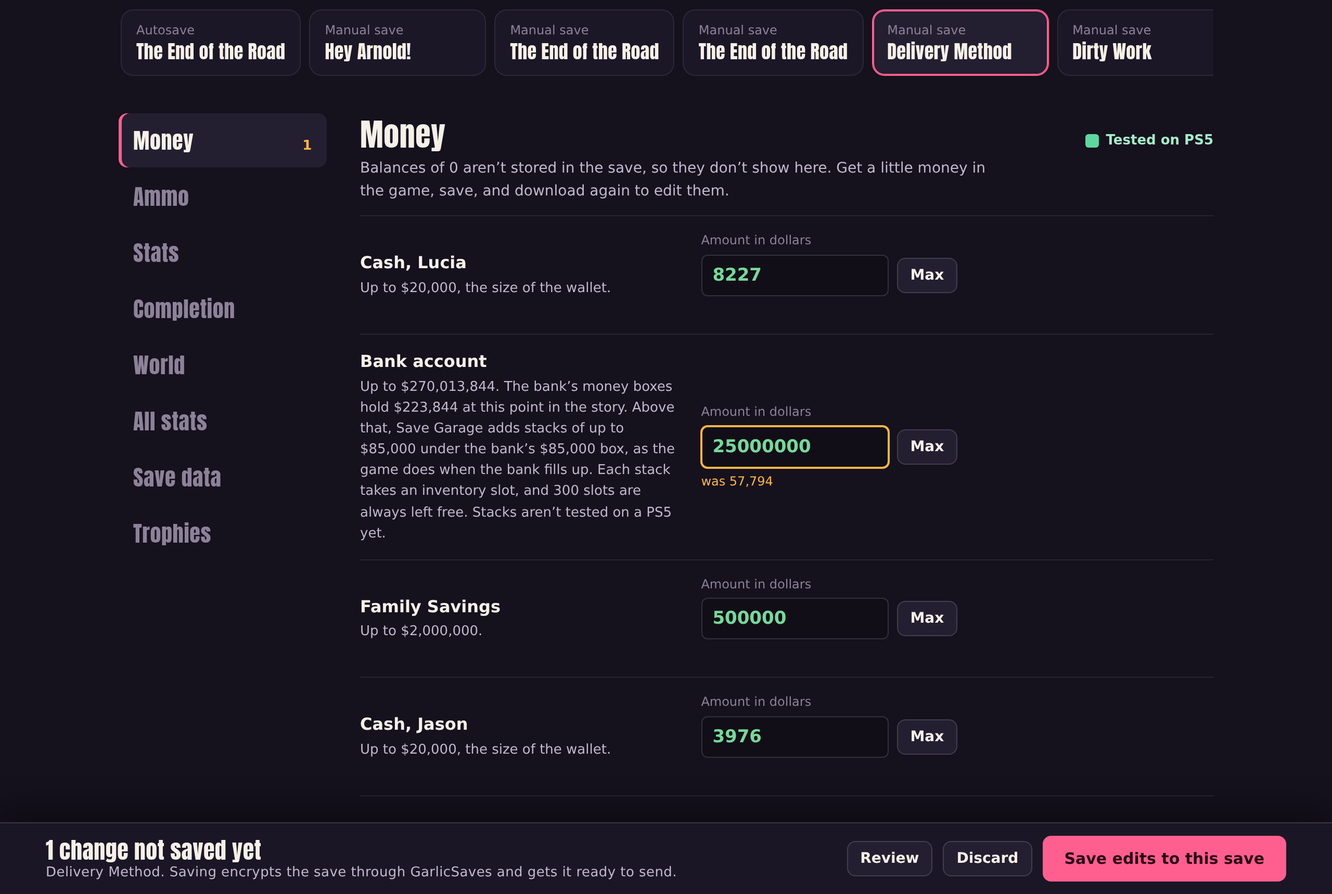
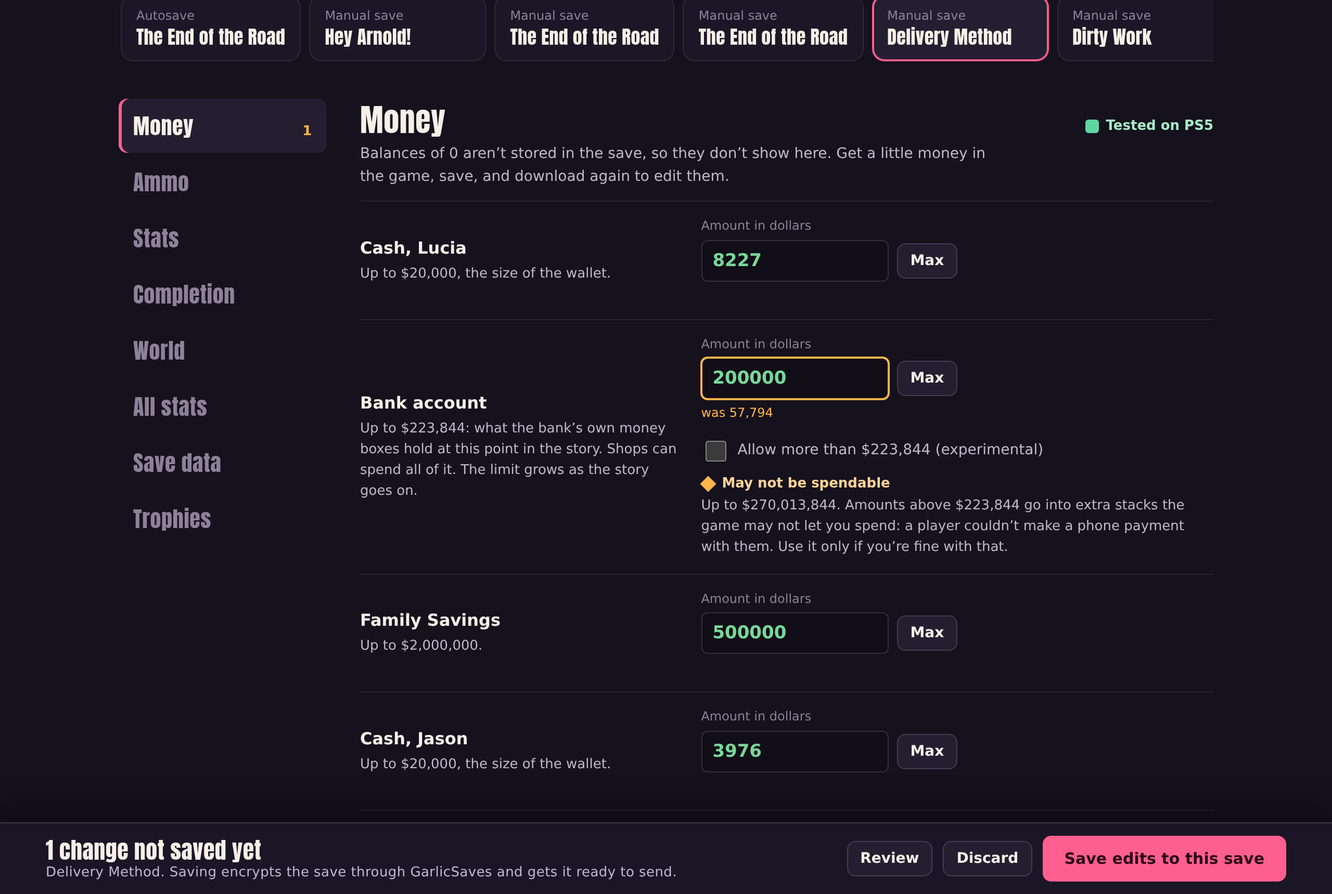
Money: keep the bank within its own boxes by default (issue #8)
A player on 1.30.0 with about $2,000,000 in the bank couldn't make a phone payment at the end of the story; with the
same money earned in the game it worked. Amounts above the bank's own boxes go into extra $85,000 stacks, which were
never tested on a PS5 and may not be spendable.
- The bank's max is now what its own boxes hold (up to $223,844 late in the story), which shops can spend. A change
  is clamped to it unless it carries stacks: true.
- "Allow more than $X (experimental)" on the Money tab opts into the stacks, marked "May not be spendable".
- A save that already holds more than its boxes (edited with 1.26-1.30) shows how much may not be spendable and a
  "Make it spendable" button that sets the bank to what its boxes hold, emptying the stacks.
- New text in 12 languages; docs and the README screenshot updated.

diff --git a/ui/app.js b/ui/app.js
@@ -559,25 +559,31 @@
 
   const riskTag = r => ({tested: '<span class="risk tested">Tested on PS5</span>', caution: '<span class="risk caution">Not tested yet</span>',
                          danger: '<span class="risk danger">Can break your save</span>', untested: '<span class="risk caution">Not tested on a PS5 yet</span>',
-                         experimental: '<span class="risk caution">Experimental, not tested on a PS5 yet</span>'})[r] || '';
+                         experimental: '<span class="risk caution">Experimental, not tested on a PS5 yet</span>',
+                         stacks: '<span class="risk caution">May not be spendable</span>'})[r] || '';
 
   // ---- drafts: what the user wants each save to look like, always relative to the original save
   function seedDraft(s) {
     if (S.drafts[s.file]) return;
-    const d = {money: {}, ammo: {}, stats: {}, world: {}, raw: {}, completion: {}, guns: {}};
+    const d = {money: {}, ammo: {}, stats: {}, world: {}, raw: {}, completion: {}, guns: {}, stacksOn: {}};
     const a = s.applied || {};
     if (a.world) d.world = JSON.parse(JSON.stringify(a.world));
     if (a.completion) d.completion = JSON.parse(JSON.stringify(a.completion));
     if (a.guns) d.guns = JSON.parse(JSON.stringify(a.guns));
     for (const c of a.raw || []) d.raw[rawKey(c.section, c.path)] = c;
-    for (const c of a.money || []) d.money[`${c.inv}:${c.idx}`] = c;
+    for (const c of a.money || []) {
+      d.money[`${c.inv}:${c.idx}`] = c;
+      if (c.stacks) d.stacksOn[`${c.inv}:${c.idx}`] = true;       // saved with the bank's extra stacks: the box stays ticked
+    }
     for (const c of a.ammo || []) d.ammo[`${c.inv}:${c.idx}`] = c;
     for (const c of a.stats || []) d.stats[`${c.group}:${c.row}`] = c;
     S.drafts[s.file] = d;
   }
 
   const rawKey = (sec, path) => sec + ':' + JSON.stringify(path);
-  const draftOf = file => S.drafts[file] || (S.drafts[file] = {money: {}, ammo: {}, stats: {}, world: {}, raw: {}, completion: {}, guns: {}});
+  const draftOf = file => S.drafts[file] || (S.drafts[file] = {money: {}, ammo: {}, stats: {}, world: {}, raw: {}, completion: {}, guns: {}, stacksOn: {}});
+  // the bank's experimental extra stacks, ticked for this bank field ("inv:idx"); its changes then carry stacks: true
+  const stacksOn = (file, key) => !!draftOf(file).stacksOn?.[key];
   const draftList = d => ({money: Object.values(d.money), ammo: Object.values(d.ammo), stats: Object.values(d.stats), world: {...(d.world || {})},
                            raw: Object.values(d.raw || {}), completion: JSON.parse(JSON.stringify(d.completion || {})), guns: JSON.parse(JSON.stringify(d.guns || {}))});
   const compCount = c => ['compendium', 'discovery', 'challenges', 'gyms', 'activities', 'robberies', 'fencing', 'activities2', 'hoops', 'vehicles', 'collectibles', 'cheats'].filter(k => c && c[k]).length;
@@ -633,24 +639,54 @@
   }
 
   // ---- money
+  // The bank goes up to what its own money boxes hold (max), which shops spend from. Past them it can take extra $85,000
+  // stacks (maxStacks), but only when the user ticks the experimental option: a player couldn't spend them (issue #8).
   function panelMoney(s) {
     const items = (s.items || []).filter(x => x.kind !== 'other');
     const name = x => ({bank: 'Bank account', savings: 'Family Savings', cash: 'Cash, ' + (x.inv === 0 ? 'Lucia' : 'Jason')})[x.kind];
+    // a bank already past its own boxes (versions 1.26 to 1.30 put the rest in extra stacks); stuck money has its own fix
+    const over = x => x.kind === 'bank' && !(x.stuck > 0) && x.value > x.max;
     const help = x => ({bank: x.stuck > 0
                           ? `BuckMe shows $${nf.format(x.value)}, but $${nf.format(x.stuck)} of it sits in Family Savings boxes that an older version of Save Garage put under the bank, and the game can’t spend it. Moving it puts as much as fits, up to $${nf.format(x.max)}, in the bank’s own money boxes.`
-                          : x.max > x.boxMax
-                          ? `Up to $${nf.format(x.max)}. The bank’s money boxes hold $${nf.format(x.boxMax)} at this point in the story. Above that, Save Garage adds stacks of up to $${nf.format(85000)} under the bank’s $${nf.format(85000)} box, as the game does when the bank fills up. Each stack takes an inventory slot, and ${nf.format(300)} slots are always left free. Stacks aren’t tested on a PS5 yet.`
-                          : `Up to $${nf.format(x.max)}: what the bank’s own money boxes hold at this point in the story. Shops only spend money from these boxes, so the editor doesn’t go past them. The limit grows as the story goes on.`,
+                          : over(x)
+                          ? `$${nf.format(x.value - x.max)} of the $${nf.format(x.value)} in the bank sits in extra stacks the game may not let you spend. Setting the bank to $${nf.format(x.max)} or less keeps everything spendable.`
+                          : `Up to $${nf.format(x.max)}: what the bank’s own money boxes hold at this point in the story. Shops can spend all of it. The limit grows as the story goes on.`,
                         savings: `Up to $${nf.format(x.max)}.`, cash: `Up to $${nf.format(x.max)}, the size of the wallet.`})[x.kind];
+    const stacksOpt = (x, key, on) => `<div class="stacks-opt">
+        <div class="row"><label class="toggle small"><input type="checkbox" data-stacks="${key}" data-max="${x.max}" data-max-stacks="${x.maxStacks}" ${on ? 'checked' : ''}> Allow more than $${nf.format(x.max)} (experimental)</label>${riskTag('stacks')}</div>
+        <span class="help">Up to $${nf.format(x.maxStacks)}. Amounts above $${nf.format(x.max)} go into extra stacks the game may not let you spend: a player couldn’t make a phone payment with them. Use it only if you’re fine with that.</span></div>`;
     return `
       <div class="group"><div class="section-head"><h2>Money</h2>${riskTag('tested')}
         <p>Balances of 0 aren’t stored in the save, so they don’t show here. Get a little money in the game, save, and download again to edit them.</p></div>
-      ${items.length ? `<div class="fields">${items.map(x => `
-        <div class="field"><div class="name">${esc(name(x))}<span class="help">${esc(help(x))}</span></div>
-          <div class="inputs">${cell({kind: 'money', key: `${x.inv}:${x.idx}`, label: 'Amount in dollars', value: x.value, display: String(x.value), unit: 'money', type: 'int', max: x.max, wide: true, money: true,
-            attrs: `data-inv="${x.inv}" data-idx="${x.idx}" data-label="${esc(name(x))}"`, extra: `<button class="btn small" data-act="fill" data-to="${x.max}">Max</button>`
-              + (x.stuck > 0 ? ` <button class="btn small primary" data-act="unstick" data-inv="${x.inv}" data-idx="${x.idx}" data-value="${x.value}" data-to="${Math.min(x.value, x.max)}">Make it spendable</button>` : '')})}</div></div>`).join('')}</div>`
+      ${items.length ? `<div class="fields">${items.map(x => {
+        const key = `${x.inv}:${x.idx}`, exp = x.kind === 'bank' && x.maxStacks > x.max, on = exp && stacksOn(s.file, key), lim = on ? x.maxStacks : x.max;
+        return `
+        <div class="field"><div class="name">${esc(name(x))}<span class="help${over(x) ? ' warn' : ''}">${esc(help(x))}</span></div>
+          <div class="inputs">${cell({kind: 'money', key, label: 'Amount in dollars', value: x.value, display: String(x.value), unit: 'money', type: 'int', max: lim, wide: true, money: true,
+            attrs: `data-inv="${x.inv}" data-idx="${x.idx}" data-label="${esc(name(x))}"`, extra: `<button class="btn small" data-act="fill" data-to="${lim}">Max</button>`
+              + (x.stuck > 0 ? ` <button class="btn small primary" data-act="unstick" data-inv="${x.inv}" data-idx="${x.idx}" data-value="${x.value}" data-to="${Math.min(x.value, x.max)}">Make it spendable</button>` : '')
+              + (over(x) ? ` <button class="btn small primary" data-act="unstack" data-to="${x.max}">Make it spendable</button>` : '')})}
+          ${exp ? stacksOpt(x, key, on) : ''}</div></div>`;
+      }).join('')}</div>`
         : '<div class="empty">This save has no money balances to edit.</div>'}</div>`;
+  }
+
+  // ticking the bank's extra stacks raises its field and Max to maxStacks, and its change asks for stacks; unticking
+  // brings an amount typed above the boxes back down to them
+  function onStacks(el) {
+    const s = slotOf(S.slot);
+    if (!s) return;
+    const d = draftOf(s.file), key = el.dataset.stacks, field = el.closest('.field');
+    d.stacksOn ??= {};
+    if (el.checked) d.stacksOn[key] = true; else delete d.stacksOn[key];
+    const input = field?.querySelector('input[data-edit="money"]'), fill = field?.querySelector('[data-act="fill"]');
+    const lim = el.checked ? el.dataset.maxStacks : el.dataset.max;
+    if (fill) fill.dataset.to = lim;
+    if (!input) return;
+    input.max = lim;
+    const v = fromDisplay(input.value, 'money', 'int');
+    if (!el.checked && input.value.trim() !== input.dataset.init && v != null && v > +el.dataset.max) input.value = el.dataset.max;
+    onEdit(input);
   }
 
   // ---- ammo
@@ -1670,7 +1706,7 @@
       const base = {value: orig, newValue, label: el.dataset.label || ''};
       d[bucket][key] = kind === 'stat'
         ? {group: el.dataset.group, row: +el.dataset.row, base: +el.dataset.base, qual: +el.dataset.qual, owner: +el.dataset.owner, ...base}
-        : {inv: +el.dataset.inv, idx: +el.dataset.idx, ...base};
+        : {inv: +el.dataset.inv, idx: +el.dataset.idx, ...base, ...(kind === 'money' && stacksOn(s.file, key) ? {stacks: true} : {})};
     }
     mark(cellEl, !same, el);
     if (kind === 'stat') updateTotal(el);
@@ -1761,6 +1797,16 @@
       d.money[`${b.dataset.inv}:${b.dataset.idx}`] = {inv: +b.dataset.inv, idx: +b.dataset.idx, value: +b.dataset.value, newValue: +b.dataset.to, label: 'Bank account (made spendable)'};
       toast('The bank money will be moved into the bank’s own boxes when you save edits.');
       renderPending(); renderCounts();
+      return;
+    }
+    if (a === 'unstack') {      // a bank past its own boxes, the rest in extra stacks: set it to what the boxes hold, stacks emptied
+      const field = b.closest('.field'), input = field?.querySelector('input[data-edit="money"]'), box = field?.querySelector('[data-stacks]');
+      if (!input) return;
+      if (box?.checked) { box.checked = false; onStacks(box); }
+      input.value = b.dataset.to; onEdit(input);
+      const c = draftOf(S.slot).money[input.dataset.key];
+      if (c) c.label = 'Bank account (made spendable)';
+      toast(`The bank will be set to $${nf.format(+b.dataset.to)}, all in its own money boxes, when you save edits.`);
       return;
     }
     if (a === 'fill') {
@@ -1934,6 +1980,7 @@
   document.addEventListener('change', e => {
     const el = e.target;
     if (el.dataset.gun && el.type === 'checkbox') onGun(el);
+    if (el.dataset.stacks && el.type === 'checkbox') onStacks(el);
     if (el.dataset.edit && el.type === 'checkbox') onEdit(el);
     if (el.dataset.raw && el.type === 'checkbox') onRaw(el);
     if (el.dataset.find === 'varies' || el.dataset.find === 'named' || el.dataset.find === 'game') {

diff --git a/ui/styles.css b/ui/styles.css
@@ -193,7 +193,11 @@ details.log pre { max-height: 220px; overflow: auto; background: var(--field); p
 .field { display: grid; grid-template-columns: minmax(200px, 1.25fr) 2fr; gap: 10px 20px; align-items: center; padding: 14px 0; border-bottom: 1px solid var(--hairline); }
 .field .name { font-weight: 600; }
 .field .help { display: block; color: var(--text-2); font-size: 13px; font-weight: 400; margin-top: 2px; }
+.field .help.warn { color: #ffd395; }
 .field .inputs { display: flex; flex-wrap: wrap; gap: 10px 14px; align-items: end; }
+/* the bank's experimental extra stacks, under its amount */
+.stacks-opt { flex-basis: 100%; max-width: 62ch; }
+.stacks-opt .row { gap: 4px 14px; }
 .cell { display: grid; gap: 4px; }
 .cell label, .cell .lbl { font-size: 12px; color: var(--text-3); }
 .cell .with-unit { display: flex; gap: 8px; align-items: center; }

diff --git a/engine/money.py b/engine/money.py
@@ -22,8 +22,9 @@ How money is stored (each part checked on a real PS5, November 2026):
   0x26457c8e (15,000), 0x33894998 (85,000), 0x00fc0216 and 0xdb44180c. The game fills them in that order when money
   comes in and empties them in that order when money goes out. Only money in these boxes counts as BuckMe funds:
   the balance the game spends from (and writes to stat 262) leaves out any other box under checking, while the BuckMe
-  app still shows it. So checking cannot go past the capacity of its own boxes, with one exception: the 85,000 box takes
-  any number of 85,000 stacks (money rows under it), and the game counts every one (see STACK_BOX). The large 400,000 / 500,000 / 1,000,000
+  app still shows it. So checking stays within the capacity of its own boxes. The 85,000 box can also take extra 85,000
+  stacks (money rows under it), which BuckMe shows in the balance, but they may not be spendable (see STACK_BOX), so
+  they are only written when a change asks for them. The large 400,000 / 500,000 / 1,000,000
   boxes belong to Family Savings, and earlier versions that put them under checking made money that shows but cannot
   be spent (GitHub issue #3). Editing the bank now empties such boxes and puts the money in checking's own boxes.
 
@@ -60,11 +61,13 @@ CHECKING_BOXES = ((0x26457c8e, 0x006854cf, 15000),
                   (0x33894998, 0x81cc2559, 85000),
                   (0x00fc0216, 0x9e5f7b71, 123844))
 # Checking's 85,000 box takes any number of stacks: every money row under it holds up to 85,000 and the game counts them
-# all, in the balance and in the limit. The game adds such stacks itself once the bank goes past its other boxes, and
-# GarlicSaves' GTA VI editor fills a bank this way (reported tested in game); Save Garage's stacks are not yet tested on
-# a PS5. Every new row needs an Items entry, and an inventory's Items array holds at most 4,095, so ITEM_RESERVE entries
-# are always left free for items the game adds later. BANK_CEILING keeps the signed 32-bit ledger and stats far from
-# overflowing. Rows emptied by a lower balance stay in place (at 0) and are filled again first.
+# all, in the balance and in the limit. GarlicSaves' GTA VI editor fills a bank this way (reported tested in game), but
+# no game-written save seen so far has a second row under the box, and Save Garage's stacks were never tested on a PS5:
+# a player on 1.30.0 with about $2,000,000 in the bank couldn't make a phone payment with them (GitHub issue #8). So they
+# may not be spendable: scan's 'max' is the own boxes, and patch only goes past them, up to 'maxStacks', for a change
+# that asks with 'stacks': True. Every new row needs an Items entry, and an inventory's Items array holds at most 4,095,
+# so ITEM_RESERVE entries are always left free for items the game adds later. BANK_CEILING keeps the signed 32-bit
+# ledger and stats far from overflowing. Rows emptied by a lower balance stay in place (at 0) and are filled again first.
 STACK_BOX, STACK_SLOT, STACK_MAX = 0x33894998, 0x81cc2559, 85000
 ITEM_LIMIT, ITEM_RESERVE = 4095, 300
 BANK_CEILING = 999999999
@@ -230,11 +233,15 @@ def _checking_caps(boxes):
     return caps
 
 
+def _own_limit(boxes):
+    """Checking within its own boxes, what shops spend from: their first rows and any other box as it is, no extra stacks."""
+    return sum(_checking_caps(boxes).values()) + sum(x['qty'] for x in boxes if x['cap'] is None and not x['foreign'])
+
+
 def _box_limit(boxes):
-    """Checking without new stacks: its own boxes' first rows, the stacks it already has, and any other box as it is."""
+    """Checking without new stacks: its own boxes and the stacks it already has."""
     stack = next((x for x in boxes if x['box'] == STACK_BOX), None)
-    return (sum(_checking_caps(boxes).values()) + sum(x['qty'] for x in boxes if x['cap'] is None and not x['foreign'])
-            + (STACK_MAX * len(stack['rows'][1:]) if stack else 0))
+    return _own_limit(boxes) + (STACK_MAX * len(stack['rows'][1:]) if stack else 0)
 
 
 def _new_stacks(boxes, items_n):
@@ -247,9 +254,9 @@ def _new_stacks(boxes, items_n):
 
 
 def _limit(kind, boxes, items_n=0):
-    """The most an account can hold. Checking: the capacity of the own boxes the save has (it gets no new boxes), plus
-    85,000 for every stack that still fits under its 85,000 box, at most BANK_CEILING. Savings: every box it can have,
-    since missing ones are added."""
+    """The most an account can hold. Checking with stacks (scan's 'maxStacks'): the capacity of the own boxes the save has
+    (it gets no new boxes) and of the stacks it has, plus 85,000 for every stack that still fits under its 85,000 box, at
+    most BANK_CEILING. Savings: every box it can have, since missing ones are added."""
     if kind == 'bank':
         lim = _box_limit(boxes)
         n = _new_stacks(boxes, items_n)
@@ -276,8 +283,9 @@ def scan(b):
                 continue
             seen |= {r for x in boxes for r in x['rows']}
             item = {'inv': n, 'idx': rows[0], 'type': v['slot'][rows[0]], 'kind': kind, 'value': sum(x['qty'] for x in boxes),
-                    'max': _limit(kind, boxes, v['items_n'])}
-            if kind == 'bank':      # value is what the BuckMe app shows; spendable is what the game can spend; stuck is the rest
+                    'max': _own_limit(boxes) if kind == 'bank' else _limit(kind, boxes, v['items_n'])}
+            if kind == 'bank':      # value is what the BuckMe app shows; spendable is all but stuck, the Family Savings boxes
+                item['maxStacks'] = _limit(kind, boxes, v['items_n'])     # with extra 85,000 stacks, for a change that asks
                 item['spendable'] = sum(x['qty'] for x in boxes if not x['foreign'])
                 item['stuck'] = item['value'] - item['spendable']
                 item['boxMax'] = _box_limit(boxes)        # above this, the balance goes into new 85,000 stacks
@@ -435,7 +443,9 @@ def _fill_stacks(txt, nth, left):
 
 
 def patch(b, changes):
-    """changes: [{inv, idx, value (old), newValue}] -> (new file bytes, log). Values above the limit are written as the limit."""
+    """changes: [{inv, idx, value (old), newValue, stacks (optional, true or false)}] -> (new file bytes, log). Values
+    above the limit are written as the limit: 'max', or for the bank with 'stacks': True, 'maxStacks', its extra 85,000
+    stacks included. A lower bank balance is always allowed, and empties the extra stacks it no longer needs."""
     ents, secs, gaps, head, tail = _load(b)
     info = scan(b); log = []
     i_inv, i_stat = _sec(ents, SEC_INV), _sec(ents, SEC_STAT)
@@ -447,10 +457,16 @@ def patch(b, changes):
         it = next((x for x in info['items'] if same_item(x, ch)), None)
         if not it or it['value'] != ch['value']:
             raise SaveError('stale_item')
+        stacks = ch.get('stacks', False)
+        if not isinstance(stacks, bool):
+            raise SaveError('bad_request')
         nv = int(round(ch['newValue']))
         if not 0 <= nv <= 2147483647:
             raise SaveError('out_of_range')
-        nv = min(nv, it.get('max', nv)); old = it['value']
+        lim = it.get('max', nv)
+        if stacks:                  # the bank's extra stacks, asked for (other kinds have no maxStacks)
+            lim = it.get('maxStacks', lim)
+        nv = min(nv, lim); old = it['value']
         if nv == old and not it.get('stuck'):      # same total, but money the game cannot spend still has to be moved
             continue
         if it['kind'] in ACCOUNTS:

diff --git a/engine/app.py b/engine/app.py
@@ -1272,6 +1272,8 @@ class H(BaseHTTPRequestHandler):
                 edits = {'money': body.get('money', body.get('changes')) or [], 'ammo': body.get('ammo') or [], 'stats': body.get('stats') or []}
                 if not all(isinstance(v, list) for v in edits.values()):
                     raise ValueError('edits must be lists')
+                if any(isinstance(c, dict) and not isinstance(c.get('stacks', False), bool) for c in edits['money']):
+                    raise ValueError('stacks must be true or false')    # the bank's opt-in to its extra 85,000 stacks
                 if body.get('completion'):
                     c = body['completion']
                     if not isinstance(c, dict):

diff --git a/README.md b/README.md
@@ -12,13 +12,13 @@ Save Garage edits your **GTA VI story-mode save on PS5**: money, ammo and stats.
 nothing on the console. Your PS5 sends the save to your computer through its own Data Transfer feature, you edit it in
 your browser, and the PS5 takes it back the same way.
 
-<p align="center"><img src="assets/screens/editor-money.png" alt="The Money tab: raising the bank to $25,000,000 with the new $85,000 stacks" width="88%"></p>
+<p align="center"><img src="assets/screens/editor-money.png" alt="The Money tab: the bank up to what its own money boxes hold, with larger amounts as an experimental option" width="88%"></p>
 
 ## What you can change
 
 | | What | Status |
 |---|---|---|
-| **Money** | Bank account, Family Savings and cash for Lucia and Jason. Family Savings goes up to about $2,000,000. The bank fills its own money boxes, then adds $85,000 stacks under its $85,000 box, as the game does when the bank fills up: up to about $230 million, depending on free inventory slots. Cash goes up to $20,000. | Tested on PS5 (the $85,000 stacks not yet) |
+| **Money** | Bank account, Family Savings and cash for Lucia and Jason. Family Savings goes up to about $2,000,000. The bank goes up to what its own money boxes hold at your point in the story, because shops spend from those. An experimental option goes past them with $85,000 stacks, up to about $230 million, but the game may not let you spend that money. Cash goes up to $20,000. | Tested on PS5; the $85,000 stacks are experimental, and a player couldn't spend them (issue #8) |
 | **Ammo** | Every ammo type each character is carrying, named the way the game names it, with one click to refill to a full load (for example 300 assault rifle rounds) or to set the maximum of 9,999. Also lists the weapons each character carries, and adds guns a character doesn't have yet: 15 for Lucia plus the grenade and sticky bomb, and 16 for Jason, each with the kit and default parts the game gives a gun you buy. | Ammo tested on PS5 up to a full load, and a save with more loads fine; adding guns is experimental and not tested on a PS5 yet |
 | **Stats** | 90 stats named the way the game's own stats screens name them: 100% completion, time played, health, stamina and focus overpowers and buffs, distance, money earned, wanted stars, kills, shots fired, vehicles stolen, fish caught and more. Each one has a sensible maximum: the game's own total where there is one (130 stunt jumps, 80 challenges, 8 vaults), otherwise a cap far above a long playthrough. | Tested on PS5, except times, distances and the story and styles percentages |
 | **Trophy counters** | Stunts, challenges, discoverables, collectibles, collectible cards and vaults robbed. | Tested on PS5 |
@@ -195,10 +195,14 @@ backups or GarlicSaves sign-in.
   boxes the game itself uses for savings goals. The bank stays within its own boxes, because shops only spend money
   from those: versions before 1.24.0 put extra money in Family Savings boxes under the bank, which BuckMe showed but
   shops couldn't spend (issue #3). Editing the bank again, or **Make it spendable** on the Money tab, moves it back.
-  Past its boxes, the bank takes any number of $85,000 stacks under its $85,000 box, which the game counts in full.
-  Each stack takes one inventory slot, and Save Garage always leaves 300 free, so the limit depends on the save
-  (about $230 million in a late save, and at most $999,999,999). An early save, before the story gives the bank its
-  $85,000 box, stays at what its boxes hold. The stacks aren't tested on a PS5 yet. Cash stays at the $20,000 wallet.
+  Past its boxes, the bank can also take $85,000 stacks under its $85,000 box, which BuckMe shows in the balance.
+  Versions 1.26.0 to 1.30.0 put anything past the boxes in such stacks, but they may not be spendable: a player on
+  1.30.0 with about $2,000,000 in the bank couldn't make a $150,000 phone payment (issue #8). Since 1.30.1 the stacks
+  are an experimental option on the Money tab, off by default, until a PS5 shows the game spends them. Each stack takes
+  one inventory slot, and Save Garage always leaves 300 free, so their limit depends on the save (about $230 million in
+  a late save, and at most $999,999,999). An early save, before the story gives the bank its $85,000 box, has no
+  stacks. A bank already past its boxes shows how much of it is in stacks, and **Make it spendable** sets it to what
+  its boxes hold, emptying the stacks. Cash stays at the $20,000 wallet.
 - **A balance of 0 can't be edited.** The game doesn't store it. Get a little money in the game, save and download again.
 - **Only ammo you carry is listed.** Pick some up in the game first to add a new type.
 - **Adding guns is experimental.** A gun is built row for row the way the game wrote guns that were bought in a save:

diff --git a/docs/API.md b/docs/API.md
@@ -18,7 +18,8 @@ The whole app state, polled about once a second by the UI.
   "slots": [{
     "file": "sdimg_SAVEDATASARC0001",                 // or sdimg_sce_sdmemory, the autosave
     "subtitle": "Mission name",
-    "items": [{"inv": 0, "idx": 384, "kind": "bank", "value": 85000, "max": 223844, "spendable": 85000, "stuck": 0}],
+    "items": [{"inv": 0, "idx": 384, "kind": "bank", "value": 85000, "max": 223844, "maxStacks": 231933844, "spendable": 85000,
+               "stuck": 0, "boxMax": 223844, "stacks": 0}],
     "ammo": [{"inv": 0, "idx": 120, "type": "rifle", "label": "Assault rifle ammo", "value": 280, "full": 300, "max": 9999}],
     "modified": false,
     "changes": [{"kind": "bank", "from": 5000, "to": 85000}],
@@ -43,10 +44,15 @@ The whole app state, polled about once a second by the UI.
 ## GET /api/slot?file=…
 
 Editor data for one save: featured stats with the exact rows to edit, ammo and the weapons each character carries.
-For the bank, `boxMax` is what the bank's own money boxes hold, and `max` adds a $85,000 stack for every inventory slot left
-above the 300 kept free (at most $999,999,999; equal to `boxMax` when the save has no $85,000 box yet). `stacks` counts
-the extra stacks the bank already has, `spendable` is the money the game can spend, and `stuck` is money an older version
-left in Family Savings boxes under the bank (shown by BuckMe, not spendable; editing the bank moves it).
+For the bank, `max` is what the bank's own money boxes hold at this point in the story, which shops spend from; an edit
+goes no higher unless it asks for the extra stacks (`stacks`, under `/api/patch` below). `maxStacks` is the limit with
+them: a $85,000 stack under the bank's $85,000 box for every inventory slot left above the 300 kept free, at most
+$999,999,999, and equal to `max` when the save has no $85,000 box yet. The stacks are experimental and may not be
+spendable (issue #8). `stacks` counts the extra stacks the bank already has, and `boxMax`, kept for compatibility, is
+where new stacks would start: `max` plus $85,000 for each of them (equal to `max` without any). `stuck` is money an older
+version left in Family Savings boxes under the bank (shown by BuckMe, not spendable; editing the bank moves it), and
+`spendable` is the rest of `value`, extra stacks included. Without `stuck` money, a `value` above `max` is money in extra
+stacks, as versions 1.26.0 to 1.30.0 wrote it.
 For ammo, `full` is a full load in the game (`null` where it isn't known) and `max` is the most Save Garage writes.
 Each weapon is
 `{"inv": 0, "id": "5dd5e66d", "name": "weaponspec_autorifle_assault_default", "label": "Kozlov KZ-59", "kind": "Assault rifle"}`:
@@ -139,9 +145,13 @@ slot 24 to 100; an armour part's fArmour goes up to its fMaxArmour, and fMaxArmo
 | `/api/signout` | none | Forgets the GarlicSaves sign-in on this computer: its entry in `config.json` and its key. Refused with `busy` while a task runs. Answers `state.garlic` |
 
 Each edit names the value it replaces (`value`) and the new one (`newValue`); an edit whose `value` no longer matches
-the save is refused. Errors come back as HTTP 409 `{"error": "<code>", "detail": "…"}`. `/api/pair`, `/api/download`,
-`/api/patch` and `/api/upload` go through GarlicSaves and are refused with `not_signed_in` until Save Garage is signed
-in.
+the save is refused. A money edit is `{"inv": 0, "idx": 384, "value": 85000, "newValue": 223844}`, and a value above the
+item's `max` is written as `max`. A bank edit with `"stacks": true` goes up to `maxStacks` instead, putting what is past
+the bank's own boxes in extra $85,000 stacks (experimental: the game may not let you spend them); `stacks` must be `true`
+or `false` (HTTP 400 otherwise). A lower bank balance is always written and empties the stacks it no longer needs, so an
+edit without `stacks` brings a bank that is in stacks back within its own boxes. Errors come back as HTTP 409
+`{"error": "<code>", "detail": "…"}`. `/api/pair`, `/api/download`, `/api/patch` and `/api/upload` go through
+GarlicSaves and are refused with `not_signed_in` until Save Garage is signed in.
 
 ### Download errors
 
